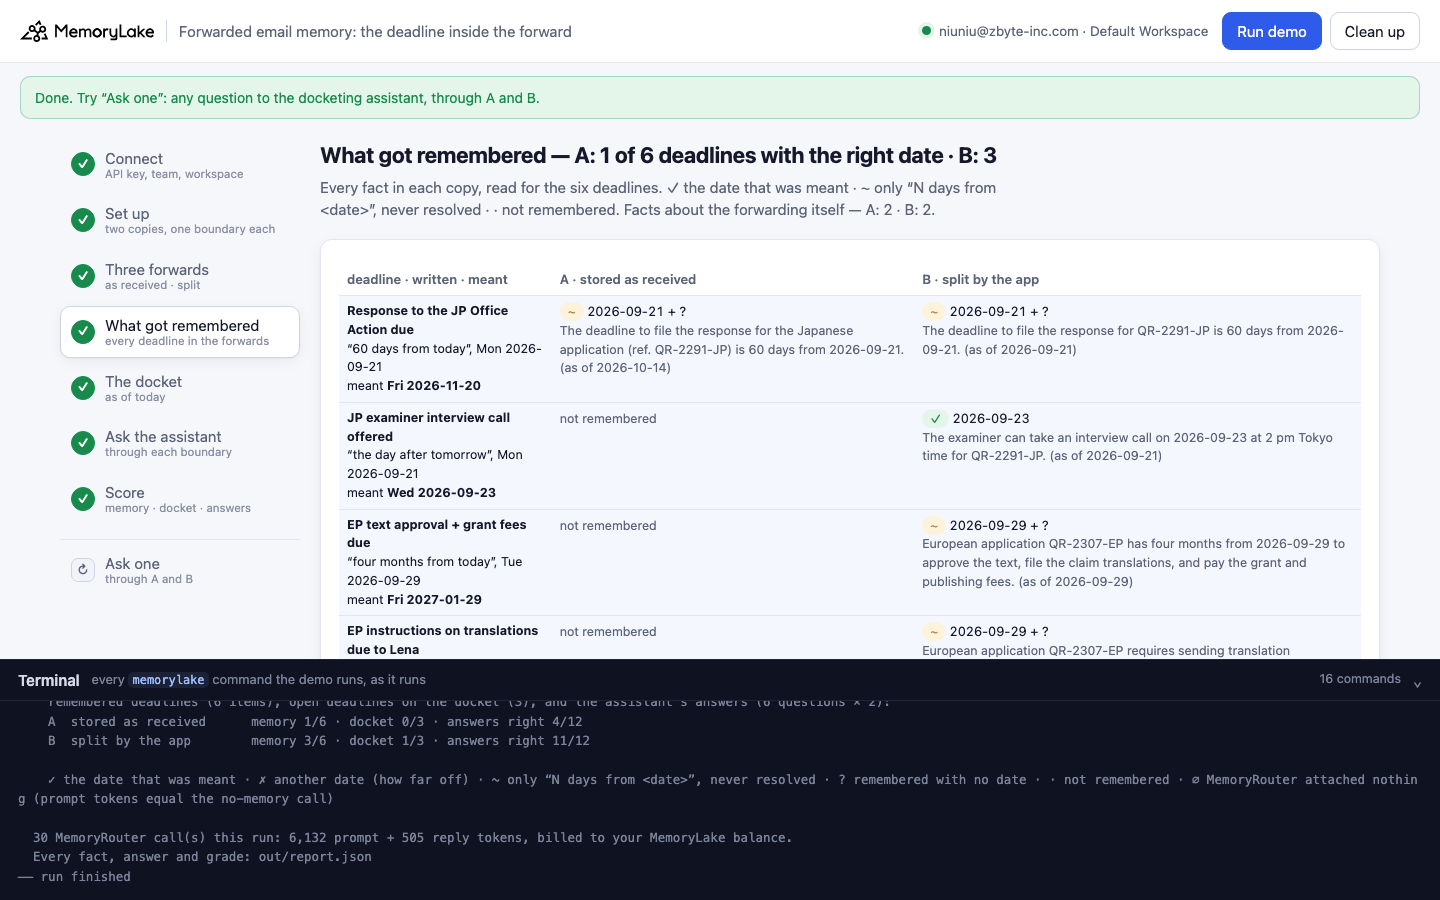
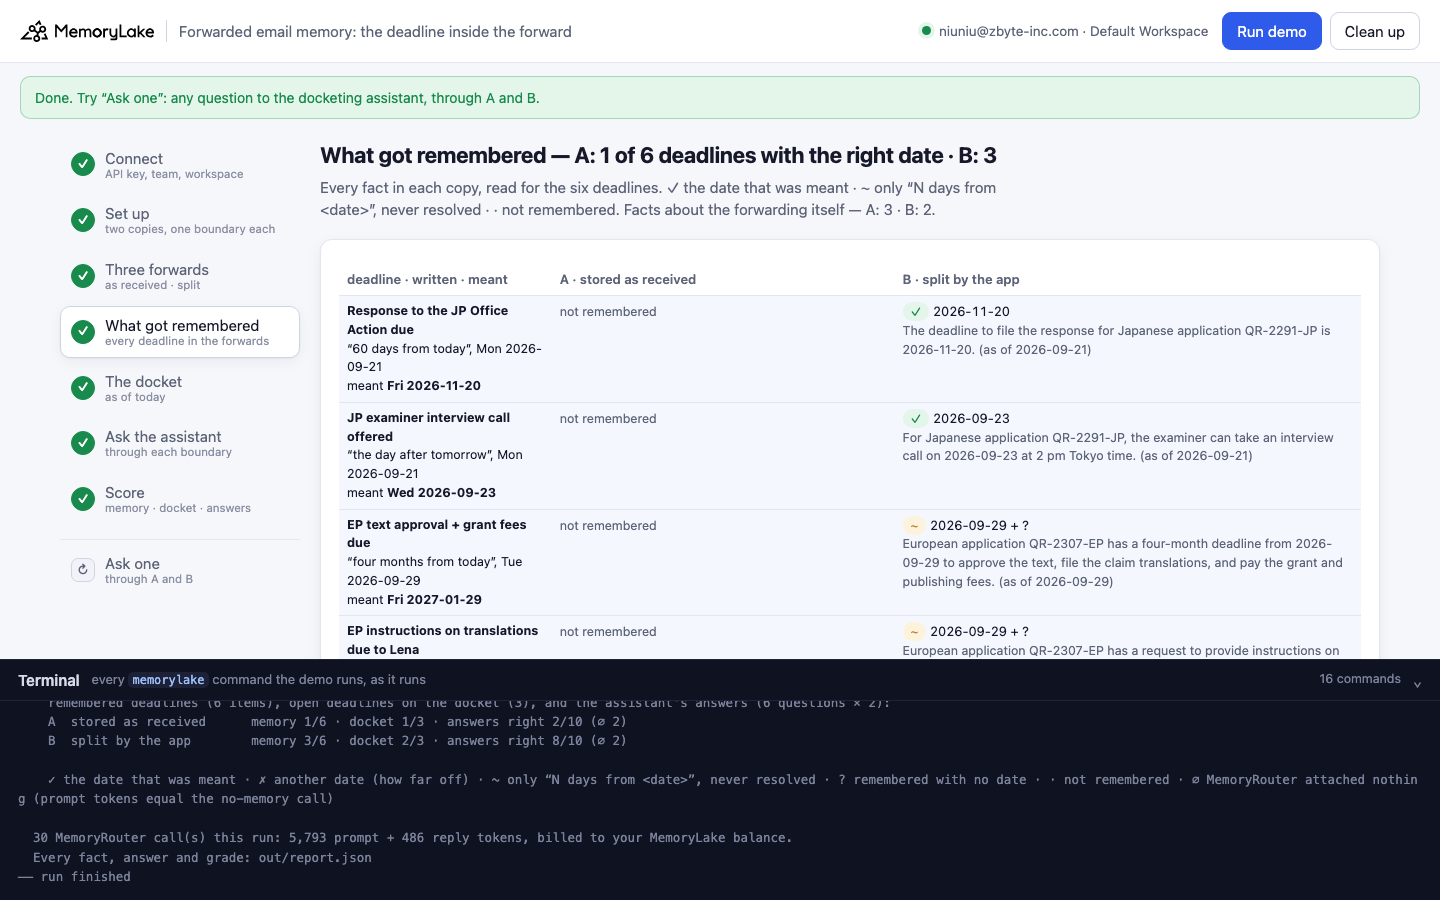
forwarded-email-memory: videos (release forwarded-email-memory-v1), grader fix, 9-run totals
The grader read "…60 days from that date and … an interview call on 2026-09-23" as the
interview date; a bare period between the keyword and the next date now means unresolved.
All stored censuses re-read with the final grader.

diff --git a/forwarded-email-memory/demo.py b/forwarded-email-memory/demo.py
@@ -405,8 +405,17 @@ def read_fact(text: str, rx: str) -> tuple[date | None, date | None]:
     real = [x for x in ds if not x[2]]
     anchors = [x for x in ds if x[2]]
     after = [x for x in real if k and x[0] >= k.start()]
-    if after:
+    # "…a response deadline 60 days from that date and an interview call on 2026-09-23": a bare period between the
+    # keyword and the next date means this item was never resolved; the next date belongs to something else.
+    # A period that names its own anchor ("60 days from 2026-09-21, i.e., 2026-11-20") is not a gap.
+    gap = DURATION.search(body, k.start(), after[0][0]) if k and after else None
+    if gap and any(x[2] and gap.end() <= x[0] < after[0][0] for x in ds):
+        gap = None
+    if after and not gap:
         return after[0][1], None
+    if gap:
+        before = [x for x in ds if x[0] < gap.start()]
+        return None, (before[-1][1] if before else None)
     if anchors:
         return None, anchors[0][1]
     if real and DURATION.search(body):

diff --git a/forwarded-email-memory/README.md b/forwarded-email-memory/README.md
@@ -4,7 +4,10 @@ A runnable version of the MemoryLake use case
 [*Give Patent and IP Teams AI That Remembers Every Prior Art Finding*](https://www.memorylake.ai/en/usecase/ai-memory-for-patent-and-ip-research),
 built entirely on the [`memorylake` CLI](https://github.com/memorylake-ai/memorylake-cli) (v20261015 or later).
 
-**Watch it run:** recording in progress.
+**Watch it run:** [CLI, 3:20](https://github.com/memorylake-ai/memorylake-usecases/releases/download/forwarded-email-memory-v1/forwarded-email-memory-cli-demo.mp4) · [Web, 3:52](https://github.com/memorylake-ai/memorylake-usecases/releases/download/forwarded-email-memory-v1/forwarded-email-memory-web-demo.mp4)
+([release](https://github.com/memorylake-ai/memorylake-usecases/releases/tag/forwarded-email-memory-v1); GitHub serves them as downloads). In the CLI recording copy B lost three deadlines too
+(1/6 each), and its census shows A's JP response as ✗ 2026-09-23: the grader was fixed after that recording and now reads that
+fact ("…60 days from that date and … an interview call on 2026-09-23") as ~ never resolved.
 
 **The problem.** A patent firm dockets from email, and most deadlines arrive forwarded. A foreign associate reports
 an Office Action, a client asks for an opinion before a board meeting, and the docketing paralegal forwards the email
@@ -33,16 +36,16 @@ forwards all three. The demo stores the same three forwards twice:
 
 | copy | how a forward is stored | deadlines remembered with the right date | not remembered at all | docketing assistant's answers right |
 |---|---|---|---|---|
-| **A** | as received: one message from the paralegal, at the time she forwarded it | **6 / 36** | **18 / 36** | **27 / 62** (∅ 10) |
-| **B** | split by the app: the original as its own message, from its author, at its `Date:`, then the paralegal's note | **19 / 36** | **5 / 36** | **57 / 69** (∅ 3) |
+| **A** | as received: one message from the paralegal, at the time she forwarded it | **9 / 54** | **28 / 54** | **38 / 93** (∅ 15) |
+| **B** | split by the app: the original as its own message, from its author, at its `Date:`, then the paralegal's note | **25 / 54** | **11 / 54** | **80 / 101** (∅ 7) |
 
-Measured over 6 complete runs (6 deadlines each; the assistant's answers are 6 questions × 2 at temperature 0.7 on
+Measured over 9 complete runs (6 deadlines each; the assistant's answers are 6 questions × 2 at temperature 0.7 on
 `gpt-4o-mini` through MemoryRouter; ∅ = MemoryRouter attached nothing and is not graded). Copy A loses the second
-deadline in an email most often: the JP examiner interview 1 / 6 in A against 6 / 6 in B. In 3 of A's 6 runs, at
+deadline in an email most often: the JP examiner interview 2 / 9 in A against 8 / 9 in B. In 5 of A's 9 runs, at
 least one email left nothing behind but "an email titled … was received for docketing".
 
 What splitting does **not** fix: extraction's date arithmetic. In both copies a period can stay unresolved
-("60 days from 2026-09-21", "four months from 2026-09-29"): 10 of A's 36 items and 11 of B's. The anchor date is
+("60 days from 2026-09-21", "four months from 2026-09-29"): 15 of A's 54 items and 17 of B's. The anchor date is
 right, which is more than A can say for its missing items, but a docket that counts only real dates leaves them off.
 
 What it is **not** about: the forward's own timestamp. Before building this demo, a probe checked whether a forward
@@ -195,8 +198,9 @@ baseline had nothing attached. The system prompt gives today's date and asks for
     FTO summary due for Orrisdale's board          2026-10-29   ✓ 2026-10-29  ✓ 2026-10-29
 ```
 
-When memory holds only "60 days from 2026-09-21", the model has to do the arithmetic itself. Across the six runs it
-answered the JP response right every time (24 of 24), but the EP question came back as 2026-01-29 in 13 of 22
+When memory holds only "60 days from 2026-09-21", the model has to do the arithmetic itself. Across the nine runs
+it answered the JP response right 30 times in 32; the other two (both copy A, CLI recording) were 2026-12-14 and
+2026-12-15, about 60 days from the day the email was *forwarded*. The EP question came back as 2026-01-29 in 17 of 30
 graded answers: four months from 29 September, in the wrong year.
 
 ### Step 7: the score
@@ -212,16 +216,20 @@ graded answers: four months from 29 September, in the wrong year.
 |---|---|---|---|---|---|---|
 | first run | 0/6 | 4/6 | 2 | 0 | 2/12 | 10/12 |
 | second run (over the first run's leftovers) | 2/6 | 3/6 | 2 | 0 | 6/10 (∅ 2) | 10/12 |
-| parallel copy 1 | 1/6 | 3/6 | 4 | 2 | 4/10 (∅ 2) | 8/11 (∅ 1) |
+| parallel copy 1 | 2/6 | 3/6 | 4 | 2 | 4/10 (∅ 2) | 8/11 (∅ 1) |
 | parallel copy 2 | 1/6 | 2/6 | 2 | 3 | 7/10 (∅ 2) | 8/10 (∅ 2) |
 | `--reset` | 1/6 | 4/6 | 4 | 0 | 4/8 (∅ 4) | 10/12 |
 | browser check | 1/6 | 3/6 | 4 | 0 | 4/12 | 11/12 |
-| **total** | **6/36** | **19/36** | **18/36** | **5/36** | **27/62** | **57/69** |
+| CLI recording | 1/6 | 1/6 | 4 | 3 | 3/11 (∅ 1) | 9/11 (∅ 1) |
+| browser recording | 1/6 | 3/6 | 5 | 1 | 2/10 (∅ 2) | 8/10 (∅ 2) |
+| after the last grader fix (`run`, `memory`, `ask`, `cleanup`) | 0/6 | 2/6 | 1 | 2 | 6/10 (∅ 2) | 6/11 (∅ 1) |
+| **total** | **9/54** | **25/54** | **28/54** | **11/54** | **38/93** | **80/101** |
 
-Per deadline, right date in A / B: JP response 3 / 4 · JP interview 1 / 6 · EP approval and fees 0 / 1 · EP
-instructions 0 / 1 · FTO summary 1 / 4 · inventor call 1 / 3. The first run's census was graded by a first version
-of the grader that misread "on 2026-09-29, giving four months from that date" as a wrong date; the numbers above
-re-read the same facts with the fixed grader (`python3 demo.py memory`). Its answers were graded at the time.
+Per deadline, right date in A / B: JP response 3 / 6 · JP interview 2 / 8 · EP approval and fees 0 / 1 · EP
+instructions 0 / 1 · FTO summary 3 / 6 · inventor call 1 / 3. The grader was corrected three times during these runs
+(a period such as "on 2026-09-29, giving four months from that date" or "60 days from that date and … on 2026-09-23"
+was first read as a wrong date; a fact that drifted into French was misread). Every census above is re-read from
+the stored facts with the final grader; answers are graded as they were at the time.
 
 The probe before this demo (one email per conversation, three deadlines each): forwarded as received, 15 of 27
 deadlines came through (2 of 9 copies kept only "an email was received for docketing"); split, 9 of 9.

diff --git a/README.md b/README.md
@@ -110,7 +110,7 @@ that memory can hold once it is more than coding sessions.
 | [private-remark-memory](private-remark-memory/) | Sales & real estate | A buyer's agency remembers client intakes; each client said one thing "between us". Default extraction keeps it as an ordinary fact and drafts to the listing agents (MemoryRouter, gpt-4o-mini) state it (28/108); a rule in the prompt 15/108; an extraction instruction that marks it `PRIVATE:` 64/108. Moving the marked facts to a team-only project stops the leak (0/108) but the model then invents a reason from the client's other facts (53/108); a content-free stub brings that to 14/108, and the team-only view still answers 54/54. No-memory control: 0 leaks | ~10 min | [CLI 7:44](https://github.com/memorylake-ai/memorylake-usecases/releases/download/private-remark-memory-v1/private-remark-memory-cli-demo.mp4) · [Web 9:51](https://github.com/memorylake-ai/memorylake-usecases/releases/download/private-remark-memory-v1/private-remark-memory-web-demo.mp4) |
 | [time-zone-memory](time-zone-memory/) | Operations & distributed teams | A team channel where Berlin, Austin and Singapore say "4pm", "6pm my time". Extraction keeps the clock time and drops the zone, so MemoryRouter answers from London read it as London time (0/99 right). Stamping the sender's zone on write fixes the hours (71/120) but the model then misses the midnight roll-over and the end of British Summer Time (0/24 each); stamping the UTC instant and converting in code gets 114/120 (all misses from one run where 4 items were never extracted). The same conversion on the unstamped memory: 0/99 | ~5 min | [CLI 4:56](https://github.com/memorylake-ai/memorylake-usecases/releases/download/time-zone-memory-v1/time-zone-memory-cli-demo.mp4) · [Web 5:27](https://github.com/memorylake-ai/memorylake-usecases/releases/download/time-zone-memory-v1/time-zone-memory-web-demo.mp4) |
 | [migrated-history-memory](migrated-history-memory/) | Engineering & developer teams | A team moves its assistant from LangChain (ConversationBufferMemory) to LangGraph and imports the history into MemoryLake. The export has no timestamps, so extraction resolves "two weeks from today" and "tomorrow" against the import day: 0/48 remembered dates right, every one +16 to +33 days late, and the migrated assistant answers 0/84. Passing each thread's `started_at` from the old request log as `--timestamp` gets the daytime threads right (31/32); the one evening thread stays a day late (extraction counts days in UTC+8). | ~3 min | [CLI 2:54](https://github.com/memorylake-ai/memorylake-usecases/releases/download/migrated-history-memory-v1/migrated-history-memory-cli-demo.mp4) · [Web 3:41](https://github.com/memorylake-ai/memorylake-usecases/releases/download/migrated-history-memory-v1/migrated-history-memory-web-demo.mp4) |
-| [forwarded-email-memory](forwarded-email-memory/) | Legal & IP teams | A patent firm's paralegal forwards three emails (foreign associates, a client) holding six relative deadlines into the docketing channel. Stored as received, extraction often remembers "an email was received for docketing" instead of the deadlines: 6/36 right, 18/36 not remembered at all, answers 27/62. Splitting each forward first (the original from its author at its `Date:`, then the note) gets 19/36 right, 5/36 missing, answers 57/69. Periods like "four months" can stay unresolved in either copy. | ~2½ min | recording in progress |
+| [forwarded-email-memory](forwarded-email-memory/) | Legal & IP teams | A patent firm's paralegal forwards three emails (foreign associates, a client) holding six relative deadlines into the docketing channel. Stored as received, extraction often remembers "an email was received for docketing" instead of the deadlines: 9/54 right, 28/54 not remembered at all, answers 38/93. Splitting each forward first (the original from its author at its `Date:`, then the note) gets 25/54 right, 11/54 missing, answers 80/101. Periods like "four months" can stay unresolved in either copy. | ~2½ min | [CLI 3:20](https://github.com/memorylake-ai/memorylake-usecases/releases/download/forwarded-email-memory-v1/forwarded-email-memory-cli-demo.mp4) · [Web 3:52](https://github.com/memorylake-ai/memorylake-usecases/releases/download/forwarded-email-memory-v1/forwarded-email-memory-web-demo.mp4) |
 
 The videos are real, unedited recordings; every asset lives on the [releases page](https://github.com/memorylake-ai/memorylake-usecases/releases).
 
